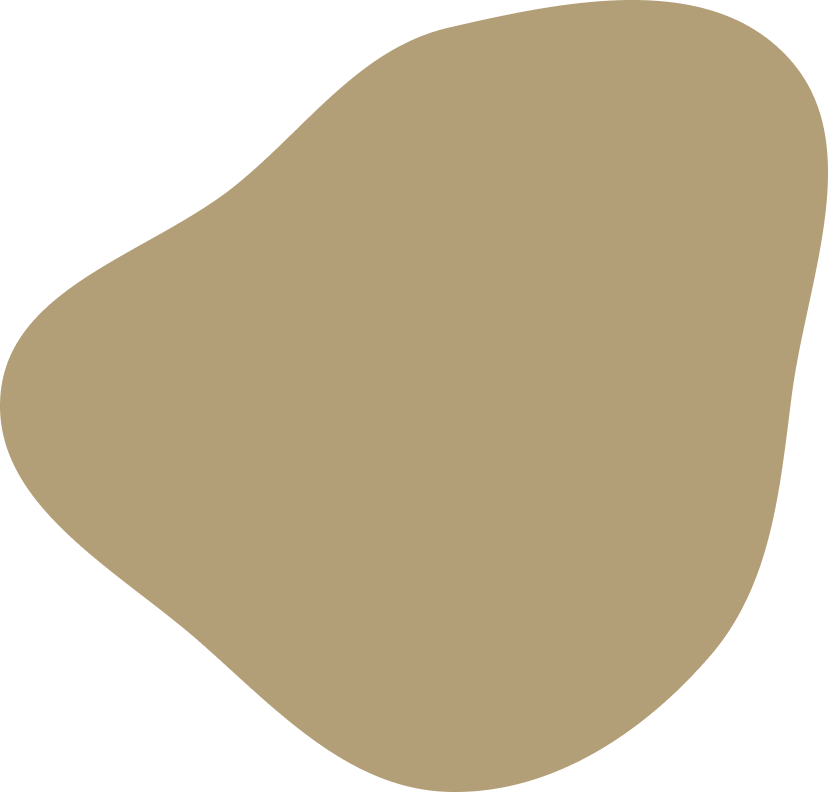
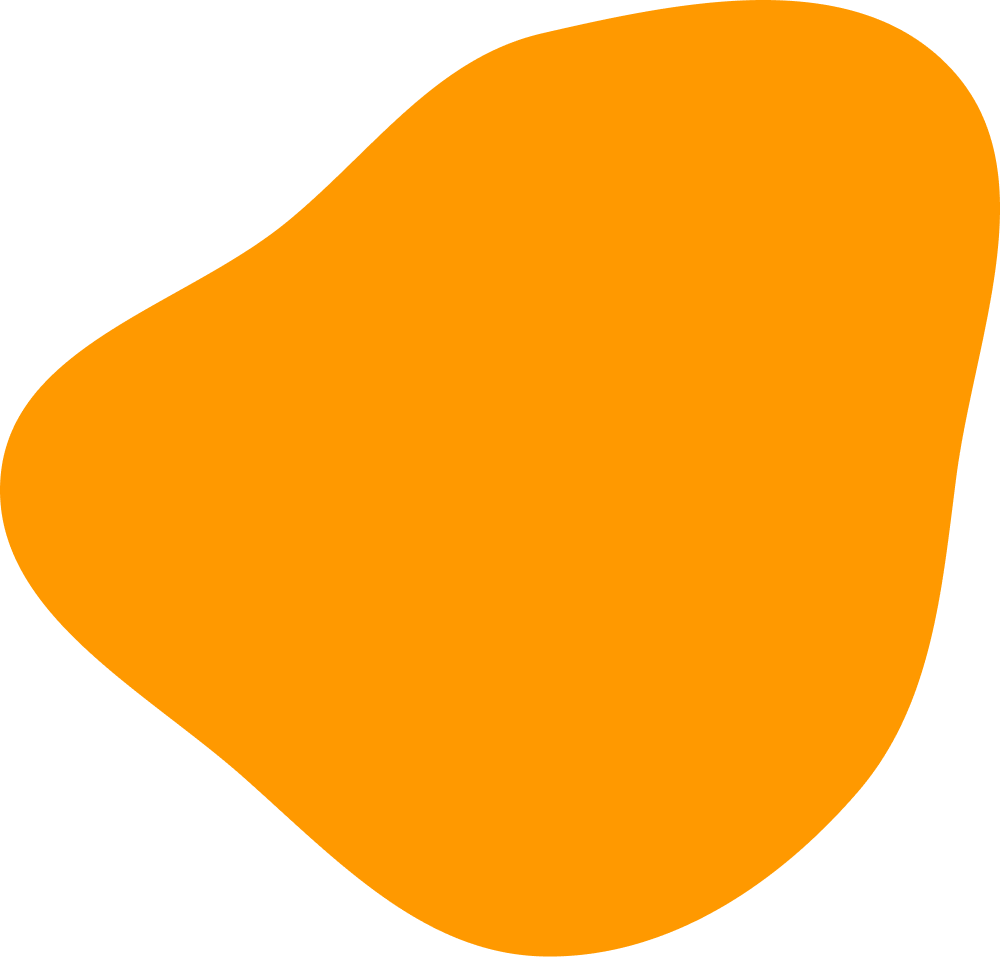
feat(sections/know-about-yoga): add

diff --git a/src/sections/KnowAboutYoga/index.tsx b/src/sections/KnowAboutYoga/index.tsx
@@ -1,13 +1,72 @@
+import NextImage from 'next/image'
 import React from 'react'
+import Waves from 'react-wavify'
 
-import { H1 } from 'components'
+import { Body, Button, Container, H1, H4 } from 'components'
+import { colors } from 'theme'
 
-import { Container } from './styles'
+import { yogaPoses } from './data'
+import { containerStyles, MediaBox, ContentBox, YogaPoses } from './styles'
+
+const wavesProps = {
+  fill: colors.Caramel,
+  style: {
+    display: 'flex',
+  },
+  paused: true,
+  options: {
+    height: 10,
+    amplitude: 100,
+    points: 3,
+  },
+}
 
 export const KnowAboutYoga = () => {
   return (
-    <Container>
-      <H1>KnowAboutYoga</H1>
-    </Container>
+    <>
+      <Waves {...wavesProps} />
+      <Container {...containerStyles}>
+        <MediaBox>
+          <NextImage
+            src={`/images/yoga-pose-3.png`}
+            layout="responsive"
+            width={500}
+            height={600}
+          />
+        </MediaBox>
+        <ContentBox>
+          <H1>Know About Yoga</H1>
+          <H4>
+            Aenean nunc augue, volutpat id massa sed, facilisis efficitur nisl
+            orci nulla, efficitur id ante at, finibus consequat sapien. Nulla
+            fermen vel purus at mollis sed malesuada laoreet quam.
+          </H4>
+          <YogaPoses.List>
+            {yogaPoses.map((yogaPose, idx) => (
+              <YogaPoses.Item.Wrapper key={`yoga-pose-${idx}`}>
+                <YogaPoses.Item.Illustration>
+                  <NextImage src={yogaPose.image.src} layout="fill" />
+                </YogaPoses.Item.Illustration>
+                <YogaPoses.Item.Content>
+                  <Body bold font="Afterglow">
+                    {yogaPose.title}
+                  </Body>
+                  <Body variant="sm">{yogaPose.subtitle}</Body>
+                </YogaPoses.Item.Content>
+              </YogaPoses.Item.Wrapper>
+            ))}
+          </YogaPoses.List>
+          <Button>Know More</Button>
+        </ContentBox>
+      </Container>
+      <Waves
+        {...wavesProps}
+        fill={colors.BridalHealth}
+        style={{
+          display: 'flex',
+          backgroundColor: colors.Caramel,
+        }}
+      />
+    </>
   )
 }

diff --git a/src/sections/KnowAboutYoga/styles.ts b/src/sections/KnowAboutYoga/styles.ts
@@ -1,9 +1,97 @@
-import styled from 'styled-components'
+import styled, { css } from 'styled-components'
 
-import { flexRowCenter } from 'theme'
+import {
+  display,
+  flexCol,
+  flexColCenter,
+  flexRow,
+  flexRowCenter,
+  flexWrap,
+  media,
+} from 'theme'
 
-export const Container = styled.div`
-  width: 100vw;
-  min-height: 50vh;
-  ${flexRowCenter}
+export const containerStyles = {
+  outerStyles: css`
+    padding: 0 2rem;
+    margin-top: -12%;
+    background-color: ${(props) => props.theme.colors.Caramel};
+
+    ${media.desktop} {
+      margin-top: unset;
+      padding: 30px 0;
+    }
+  `,
+  innerStyles: css`
+    padding: 0;
+    padding-bottom: 75px;
+
+    ${media.desktop} {
+      ${flexRowCenter}
+      justify-content: space-evenly;
+
+      height: 80vh;
+      padding-bottom: 150px;
+    }
+  `,
+}
+
+export const MediaBox = styled.div`
+  flex-basis: 40%;
 `
+
+export const ContentBox = styled.div`
+  height: 75vh;
+  ${flexColCenter}
+  justify-content: space-evenly;
+
+  h1,
+  h4 {
+    align-self: flex-start;
+    text-align: left;
+  }
+
+  button {
+    background-color: ${(props) => props.theme.colors.BridalHealth};
+    border-color: ${(props) => props.theme.colors.BridalHealth};
+    :hover {
+      border-color: black;
+      color: black;
+    }
+  }
+
+  ${media.desktop} {
+    flex-basis: 40%;
+    height: 100%;
+  }
+`
+
+export const YogaPoses = {
+  List: styled.div`
+    ${flexRow}
+    justify-content: space-evenly;
+    ${flexWrap.yes}
+    min-height: 130px;
+  `,
+  Item: {
+    Wrapper: styled.div`
+      ${flexRowCenter}
+      justify-content: flex-start;
+      width: 227px;
+    `,
+    Illustration: styled.div`
+      position: relative;
+      margin-right: 10px;
+      ${display.flex}
+      height: 50px;
+      width: 50px;
+    `,
+    Content: styled.div`
+      height: 100%;
+      ${flexCol}
+      justify-content: space-evenly;
+      p:first-child {
+        letter-spacing: 0.5px;
+      }
+    `,
+  },
+}

diff --git a/src/theme/colors.ts b/src/theme/colors.ts
@@ -1,21 +1,22 @@
 export interface IColors {
-  BuddhaGold: '#C4AC00'
-  Orange: '#FC541B'
-  WestSide: '#FD9109'
-  SuperNova: '#FFCA02'
-  Sundown: '#FFAEB3'
-  BridalHealth: '#FFFAF0'
-  Mongoose: '#B39F77'
-  Mischka: '#D5D4D9'
-  Black: '#000000'
-  White: '#FFFFFF'
-  primary: '#B39F77'
+  BuddhaGold: string
+  Orange: string
+  WestSide: string
+  SuperNova: string
+  Sundown: string
+  BridalHealth: string
+  Mongoose: string
+  Mischka: string
+  Black: string
+  White: string
+  Caramel: string
+  primary: string
 }
 
 export const colors: IColors = {
   BuddhaGold: '#C4AC00',
   Orange: '#FC541B',
-  WestSide: '#FD9109',
+  WestSide: '#FF9900',
   SuperNova: '#FFCA02',
   Sundown: '#FFAEB3',
   BridalHealth: '#FFFAF0',
@@ -23,5 +24,6 @@ export const colors: IColors = {
   Mischka: '#D5D4D9',
   Black: '#000000',
   White: '#FFFFFF',
-  primary: '#B39F77',
+  Caramel: '#FFD68A',
+  primary: '#FF9900',
 }

diff --git a/src/sections/Hero/index.tsx b/src/sections/Hero/index.tsx
@@ -30,7 +30,7 @@ export const Hero: React.FC<Props> = (props) => {
         <NextImage
           width="510px"
           height="560px"
-          src={'/images/yoga-pose-hero-1.png'}
+          src={'/images/yoga-pose-hero-2.png'}
           objectFit="cover"
           layout="responsive"
         />
@@ -44,7 +44,7 @@ Hero.defaultProps = {
   subtitle:
     'Lorem ipsum dolor sit amet, consectetur adipiscing elit. In id risus nec turpis feugiat ornare eu non sem. Nam molestie eleifend dui, id tristique lectus.',
   cta: {
-    children: 'Find your nearest hub',
+    children: 'Learn More',
     onClick: () => scrollTo(sectionIds.locations),
   },
 }

diff --git a/src/sections/KnowAboutYoga/data.ts b/src/sections/KnowAboutYoga/data.ts
@@ -1,0 +1,22 @@
+export const yogaPoses = [
+  {
+    image: { src: '/images/icons/yoga-line-icon-1.png' },
+    title: 'Strong Body Life',
+    subtitle: 'Lorem Ipsum Text',
+  },
+  {
+    image: { src: '/images/icons/yoga-line-icon-2.png' },
+    title: 'Increased Flexibility',
+    subtitle: 'Lorem Ipsum Text',
+  },
+  {
+    image: { src: '/images/icons/yoga-line-icon-3.png' },
+    title: 'Healthy Lifestyle',
+    subtitle: 'Lorem Ipsum Text',
+  },
+  {
+    image: { src: '/images/icons/yoga-line-icon-4.png' },
+    title: 'Get Rid of Stress',
+    subtitle: 'Lorem Ipsum Text',
+  },
+]

diff --git a/src/components/Typography/Body.tsx b/src/components/Typography/Body.tsx
@@ -4,6 +4,7 @@ import { cursor } from 'theme'
 
 interface Props {
   bold?: boolean
+  font?: string
   variant?: 'sm' | 'md' | 'lg'
 }
 
@@ -30,7 +31,7 @@ export const Body = styled.p<Props>`
         : '1.2rem'
 
     return css`
-      font-family: 'Poppins';
+      font-family: ${props.font};
       font-size: ${size};
       font-weight: ${fontWeight};
       line-height: ${lineHeight};
@@ -41,4 +42,5 @@ export const Body = styled.p<Props>`
 Body.defaultProps = {
   bold: false,
   variant: 'lg',
+  font: 'Poppins',
 }

diff --git a/src/components/Button/styles.ts b/src/components/Button/styles.ts
@@ -20,7 +20,7 @@ export const buttonStyles = css<Props>`
     return css`
       border: 2px solid ${props.theme.colors.primary};
       background-color: ${props.theme.colors.primary};
-      color: ${props.theme.colors.BridalHealth};
+      color: ${props.theme.colors.Black};
       ${props.isLoading &&
       css`
         padding: 0;

diff --git a/src/components/Typography/Headings.tsx b/src/components/Typography/Headings.tsx
@@ -9,6 +9,8 @@ export const H1 = styled.h1`
   font-family: Afterglow;
   font-style: normal;
   margin: 0;
+  margin-block-start: 0;
+  margin-block-end: 0;
   ${cursor.default}
   ${textAlign.center}
 
